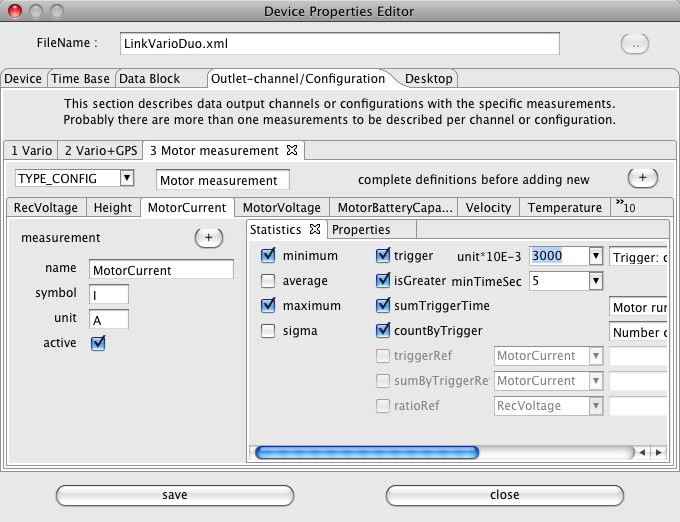
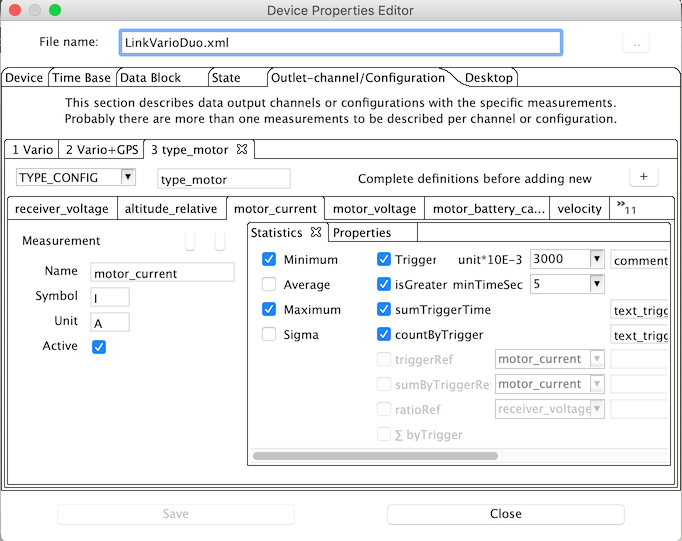
update device properties editor to support capability to integrate values by trigger

Changed region(s): [[0.0, 0.0, 1.0, 1.0]]

diff --git a/DataExplorer/src/gde/ui/dialog/edit/StatisticsTypeTabItem.java b/DataExplorer/src/gde/ui/dialog/edit/StatisticsTypeTabItem.java
@@ -82,6 +82,7 @@ public class StatisticsTypeTabItem extends CTabItem implements Cloneable {
 	Button												countByTriggerButton;
 	Text													triggerRefOrdinalText, sumTriggerText;
 	Button												isRatioRefOrdinalButton;
+	Button												isIntegrateByTriggerButton;
 	Text													triggerCommentText;
 	CCombo												minTimeSecCombo;
 	Label													minTimeSecLabel;
@@ -100,7 +101,7 @@ public class StatisticsTypeTabItem extends CTabItem implements Cloneable {
 
 	Boolean												statisticsMin, statisticsMax, statisticsAvg, statisticsSigma;
 	String												triggerComment, sumTriggerComment, sumTriggerTimeComment, countByTriggerComment, ratioComment, triggerRefOrdinalComment;
-	Boolean												isGreater, isSumTriggerTime, isCountByTrigger, isRatioRefOrdinal;
+	Boolean												isGreater, isSumTriggerTime, isCountByTrigger, isRatioRefOrdinal, isIntegrateByTrigger;
 	Integer												triggerLevel, minTimeSec, ratioRefOrdinal;
 	Integer												triggerRefOrdinal, sumByTriggerRefOrdinal;																																																											// must be equal !!!
 	boolean												isSomeTriggerDefined					= false;
@@ -162,6 +163,8 @@ public class StatisticsTypeTabItem extends CTabItem implements Cloneable {
 		this.isRatioRefOrdinal = copyFrom.isRatioRefOrdinal;
 		this.ratioRefOrdinal = copyFrom.ratioRefOrdinal;
 		this.ratioComment = copyFrom.ratioComment;
+		
+		this.isIntegrateByTrigger = copyFrom.isIntegrateByTrigger;
 
 		this.deviceConfig = copyFrom.deviceConfig;
 		this.channelConfigNumber = copyFrom.channelConfigNumber;
@@ -239,6 +242,7 @@ public class StatisticsTypeTabItem extends CTabItem implements Cloneable {
 		this.isRatioRefOrdinalButton.setEnabled(isTriggerDefined && this.triggerType == null);
 		this.ratioRefOrdinalCombo.setEnabled(isTriggerDefined && this.triggerType == null);
 		this.ratioText.setEnabled(isTriggerDefined && this.triggerType == null);
+		this.isIntegrateByTriggerButton.setEnabled(isTriggerDefined && this.triggerType == null);
 
 		if (this.statisticsType != null) {
 			if (isTriggerDefined) {
@@ -301,6 +305,13 @@ public class StatisticsTypeTabItem extends CTabItem implements Cloneable {
 					this.isRatioRefOrdinalButton.setSelection(this.isRatioRefOrdinal = false);
 					this.ratioRefOrdinalCombo.setEnabled(false);
 					this.ratioText.setEnabled(false);
+				}
+
+				if ((this.isIntegrateByTrigger = this.statisticsType.isIntegrateByTrigger()) != null) {
+					this.isIntegrateByTriggerButton.setSelection(this.isIntegrateByTrigger);
+				}
+				else {
+					this.isIntegrateByTriggerButton.setSelection(false);
 				}
 			}
 			else { // no measurement defines a trigger, as reult no measurement can reference to it
@@ -947,8 +958,38 @@ public class StatisticsTypeTabItem extends CTabItem implements Cloneable {
 					}
 				});
 			}
+			{
+				this.isIntegrateByTriggerButton = new Button(this.statisticsComposite, SWT.CHECK | SWT.LEFT);
+				this.isIntegrateByTriggerButton.setFont(SWTResourceManager.getFont(GDE.WIDGET_FONT_NAME, GDE.WIDGET_FONT_SIZE, SWT.NORMAL));
+				this.isIntegrateByTriggerButton.setText(Messages.getString(MessageIds.GDE_MSGT0959));
+				this.isIntegrateByTriggerButton.setBounds(125, 180, 118, 20);
+				this.isIntegrateByTriggerButton.setToolTipText(Messages.getString(MessageIds.GDE_MSGT0575));
+				this.isIntegrateByTriggerButton.addSelectionListener(new SelectionAdapter() {
+					@Override
+					public void widgetSelected(SelectionEvent evt) {
+						log.log(java.util.logging.Level.FINEST, "isIntegrateByTriggerButton.widgetSelected, event=" + evt); //$NON-NLS-1$
+						StatisticsTypeTabItem.this.isRatioRefOrdinal = StatisticsTypeTabItem.this.isRatioRefOrdinalButton.getSelection();
+						StatisticsTypeTabItem.this.ratioRefOrdinalCombo.setEnabled(StatisticsTypeTabItem.this.isRatioRefOrdinal);
+						StatisticsTypeTabItem.this.ratioText.setEnabled(StatisticsTypeTabItem.this.isRatioRefOrdinal);
+						if (StatisticsTypeTabItem.this.statisticsType != null && !StatisticsTypeTabItem.this.isRatioRefOrdinal) {
+							StatisticsTypeTabItem.this.statisticsType.setRatioRefOrdinal(StatisticsTypeTabItem.this.ratioRefOrdinalCombo.getSelectionIndex());
+							StatisticsTypeTabItem.this.ratioText.setText(StatisticsTypeTabItem.this.ratioText.getText());
+							StatisticsTypeTabItem.this.deviceConfig.setChangePropery(true);
+							StatisticsTypeTabItem.this.propsEditor.enableSaveButton(true);
+						}
+						else {
+							if (StatisticsTypeTabItem.this.statisticsType != null) {
+								StatisticsTypeTabItem.this.statisticsType.setRatioRefOrdinal(null);
+							}
+							StatisticsTypeTabItem.this.ratioText.setText(GDE.STRING_EMPTY);
+							StatisticsTypeTabItem.this.deviceConfig.setChangePropery(true);
+							StatisticsTypeTabItem.this.propsEditor.enableSaveButton(true);
+						}
+					}
+				});
+			}
 			this.scrolledComposite.setContent(this.statisticsComposite);
-			this.statisticsComposite.setSize(700, 185);
+			this.statisticsComposite.setSize(700, 205);
 			this.statisticsComposite.layout();
 
 			initialize();
@@ -1054,6 +1095,8 @@ public class StatisticsTypeTabItem extends CTabItem implements Cloneable {
 		StatisticsTypeTabItem.this.isRatioRefOrdinalButton.setSelection(StatisticsTypeTabItem.this.ratioRefOrdinal != null);
 		StatisticsTypeTabItem.this.ratioRefOrdinalCombo.select(StatisticsTypeTabItem.this.ratioRefOrdinal == null ? 0 : StatisticsTypeTabItem.this.ratioRefOrdinal);
 		StatisticsTypeTabItem.this.ratioText.setText(StatisticsTypeTabItem.this.ratioComment == null ? GDE.STRING_EMPTY : StatisticsTypeTabItem.this.ratioComment);
+		StatisticsTypeTabItem.this.isIntegrateByTriggerButton.setSelection(StatisticsTypeTabItem.this.isIntegrateByTrigger != null ? StatisticsTypeTabItem.this.isIntegrateByTrigger : false);
+		StatisticsTypeTabItem.this.isIntegrateByTriggerButton.setEnabled(StatisticsTypeTabItem.this.triggerRefOrdinal != null);
 
 		//StatisticsTypeTabItem.this.enableContextMenu(true);
 	}

diff --git a/DataExplorer/src/gde/messages/MessageIds.java b/DataExplorer/src/gde/messages/MessageIds.java
@@ -1111,5 +1111,6 @@ public class MessageIds {
 	public final static String	GDE_MSGT0956 = "GDE_MSGT0956";
 	public final static String	GDE_MSGT0957 = "GDE_MSGT0957";
 	public final static String	GDE_MSGT0958 = "GDE_MSGT0958";
+	public final static String	GDE_MSGT0959 = "GDE_MSGT0959";
 
  }
